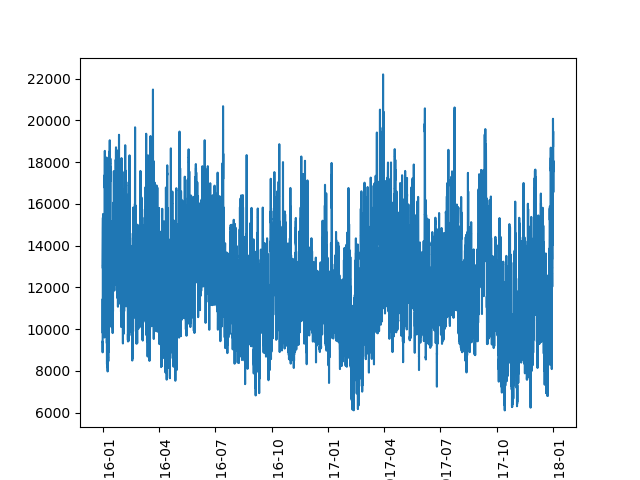
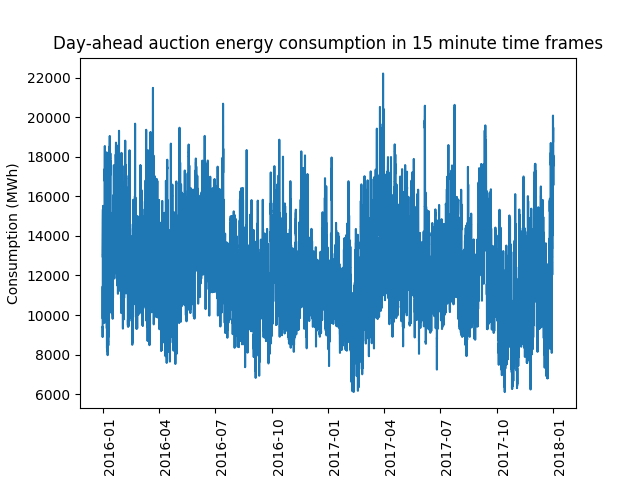
Plotting reworked

diff --git a/2 Data Preparation/figure_plotting.py b/2 Data Preparation/figure_plotting.py
@@ -1,7 +1,5 @@
 import pandas as pd
-import numpy as np
 import matplotlib.pyplot as plt
-import pylab
 
 path='../00 Data/Final/cleanFinal.csv'
 dataframe=pd.read_csv(path, dayfirst=True)
@@ -13,8 +11,8 @@ price= dataframe['price']
 price_dayahead= dataframe['price_dayahead']
 price_premium= dataframe['price_premium']
 participants= dataframe['participants']
-month= dataframe['month']
 intraday_consumption= dataframe['consumption']
+dayahead_consumption = dataframe['consumption_dayahead']
 dailyTempAvg=dataframe['dailyTempAvg(Celsius)']
 dailyTempMax=dataframe['dailyTempMax(Celsius)']
 dailyTempMin=dataframe['dailyTempMin(Celsius)']
@@ -24,13 +22,153 @@ monthlyRainVolume=dataframe['monthlyRainVolume(mm)']
 numberRainyDays=dataframe['numberRainyDays']
 dailySunnyHoursAvg= dataframe['dailySunnyHoursAvg']
 monthlyWindSpeedAvg=dataframe['monthlyWindSpeedAvg(km/h)']
-consumption_dayahead=dataframe['consumption_dayahead']
 
-#normal plots
-plt.plot(datetime,consumption_dayahead)
+# intraday price
+plt.plot(datetime, price)
 plt.setp(plt.xticks()[1], rotation=90, ha='left')
+plt.ylabel('Price (€/MWh)')
+plt.title('Intraday auction price history')
+plt.gcf().subplots_adjust(bottom=0.18)
+
+plt.savefig('../00 Data/Figures/price_intraday.png')
+plt.close()
+
+# day ahead price
+plt.plot(datetime, price_dayahead)
+plt.setp(plt.xticks()[1], rotation=90, ha='left')
+plt.ylabel('Price (€/MWh)')
+plt.title('Day-ahead auction price history')
+plt.gcf().subplots_adjust(bottom=0.15)
+
+plt.savefig('../00 Data/Figures/price_dayahead.png')
+plt.close()
+
+# price comparison
+plt.plot(datetime, price, alpha=0.5, color='b', label='Intraday auction')
+plt.plot(datetime, price_dayahead, alpha=0.5, color='r', label='Day-ahead auction')
+plt.setp(plt.xticks()[1], rotation=90, ha='left')
+axes = plt.gca()
+axes.set_ylim([-150, 200])
+plt.ylabel('Price (€/MWh)')
+plt.title('Price comparison')
+plt.legend(loc=0)
+plt.gcf().subplots_adjust(bottom=0.15)
+
+plt.savefig('../00 Data/Figures/prices.png')
+plt.close()
+
+# participants
+plt.plot(datetime, participants)
+plt.setp(plt.xticks()[1], rotation=90, ha='left')
+plt.ylabel('Number of market participants')
+plt.title('Market participation history')
+plt.gcf().subplots_adjust(bottom=0.15)
+
+plt.savefig('../00 Data/Figures/participants.png')
+plt.close()
+
+# intraday consumption
+plt.plot(datetime, intraday_consumption)
+plt.setp(plt.xticks()[1], rotation=90, ha='left')
+plt.ylabel('Consumption (MWh)')
+plt.title('Intraday auction energy consumption in 15 minute time frames')
+plt.gcf().subplots_adjust(bottom=0.15)
+
+plt.savefig('../00 Data/Figures/consumption_intraday.png')
+plt.close()
+
+# day ahead consumption
+plt.plot(datetime, dayahead_consumption)
+plt.setp(plt.xticks()[1], rotation=90, ha='left')
+plt.ylabel('Consumption (MWh)')
+plt.title('Day-ahead auction energy consumption in 15 minute time frames')
+plt.gcf().subplots_adjust(bottom=0.15)
 
 plt.savefig('../00 Data/Figures/consumption_dayahead.png')
+plt.close()
+
+# price comparison
+plt.plot(datetime, intraday_consumption, alpha=0.5, color='b', label='Intraday auction')
+plt.plot(datetime, dayahead_consumption, alpha=0.5, color='r', label='Day-ahead auction')
+plt.setp(plt.xticks()[1], rotation=90, ha='left')
+axes = plt.gca()
+axes.set_ylim([0, 25000])
+plt.ylabel('Consumption (MWh)')
+plt.title('Energy consumption comparison in 15 minute time frames')
+plt.legend(loc=0)
+plt.gcf().subplots_adjust(bottom=0.15)
+
+plt.savefig('../00 Data/Figures/consumption.png')
+plt.close()
+
+# temperature
+plt.plot(datetime, dailyTempAvg, alpha=0.5, color='m', label='Average temperature')
+plt.plot(datetime, dailyTempMax, alpha=0.5, color='r', label='Maximum temperature')
+plt.plot(datetime, dailyTempMin, alpha=0.5, color='b', label='Minimum temperature')
+plt.setp(plt.xticks()[1], rotation=90, ha='left')
+axes = plt.gca()
+axes.set_ylim([-5, 25])
+plt.ylabel('Temperature (°C)')
+plt.title('Temperature of an average day per month')
+plt.legend(loc=0)
+plt.gcf().subplots_adjust(bottom=0.15)
+
+plt.savefig('../00 Data/Figures/temperature.png')
+plt.close()
+
+# cold days
+plt.plot(datetime, numberFreezingDays, alpha=0.5, color='b', label='Minimum daily temperature below 0 °C')
+plt.plot(datetime, numberIcyDays, alpha=0.5, color='c', label='Maximum daily temperature below 0 °C')
+plt.setp(plt.xticks()[1], rotation=90, ha='left')
+axes = plt.gca()
+axes.set_ylim([0, 29])
+plt.ylabel('Number of days per month')
+plt.title('Number of cold days per month')
+plt.legend(loc=0)
+plt.gcf().subplots_adjust(bottom=0.15)
+
+plt.savefig('../00 Data/Figures/cold_days.png')
+plt.close()
+
+# rain volume
+plt.plot(datetime, monthlyRainVolume)
+plt.setp(plt.xticks()[1], rotation=90, ha='left')
+plt.ylabel('Rain volume (mm)')
+plt.title('Monthly rain volume')
+plt.gcf().subplots_adjust(bottom=0.18)
+
+plt.savefig('../00 Data/Figures/rain_volume.png')
+plt.close()
+
+# rainy days count
+plt.plot(datetime, numberRainyDays)
+plt.setp(plt.xticks()[1], rotation=90, ha='left')
+plt.ylabel('Number of rainy days')
+plt.title('Number of rainy days per month')
+plt.gcf().subplots_adjust(bottom=0.18)
+
+plt.savefig('../00 Data/Figures/rainy_day_count.png')
+plt.close()
+
+# sunny hours
+plt.plot(datetime, dailySunnyHoursAvg)
+plt.setp(plt.xticks()[1], rotation=90, ha='left')
+plt.ylabel('Number of sunny hours')
+plt.title('Amount of sunny hours on an average day per month')
+plt.gcf().subplots_adjust(bottom=0.18)
+
+plt.savefig('../00 Data/Figures/sunny_hours.png')
+plt.close()
+
+# sunny hours
+plt.plot(datetime, monthlyWindSpeedAvg)
+plt.setp(plt.xticks()[1], rotation=90, ha='left')
+plt.ylabel('Wind speed (km/h)')
+plt.title('Average wind speed per month')
+plt.gcf().subplots_adjust(bottom=0.18)
+
+plt.savefig('../00 Data/Figures/wind_speed.png')
+plt.close()
 
 #normal plots
 #https://stackoverflow.com/questions/17430105/autofmt-xdate-deletes-x-axis-labels-of-all-subplots
